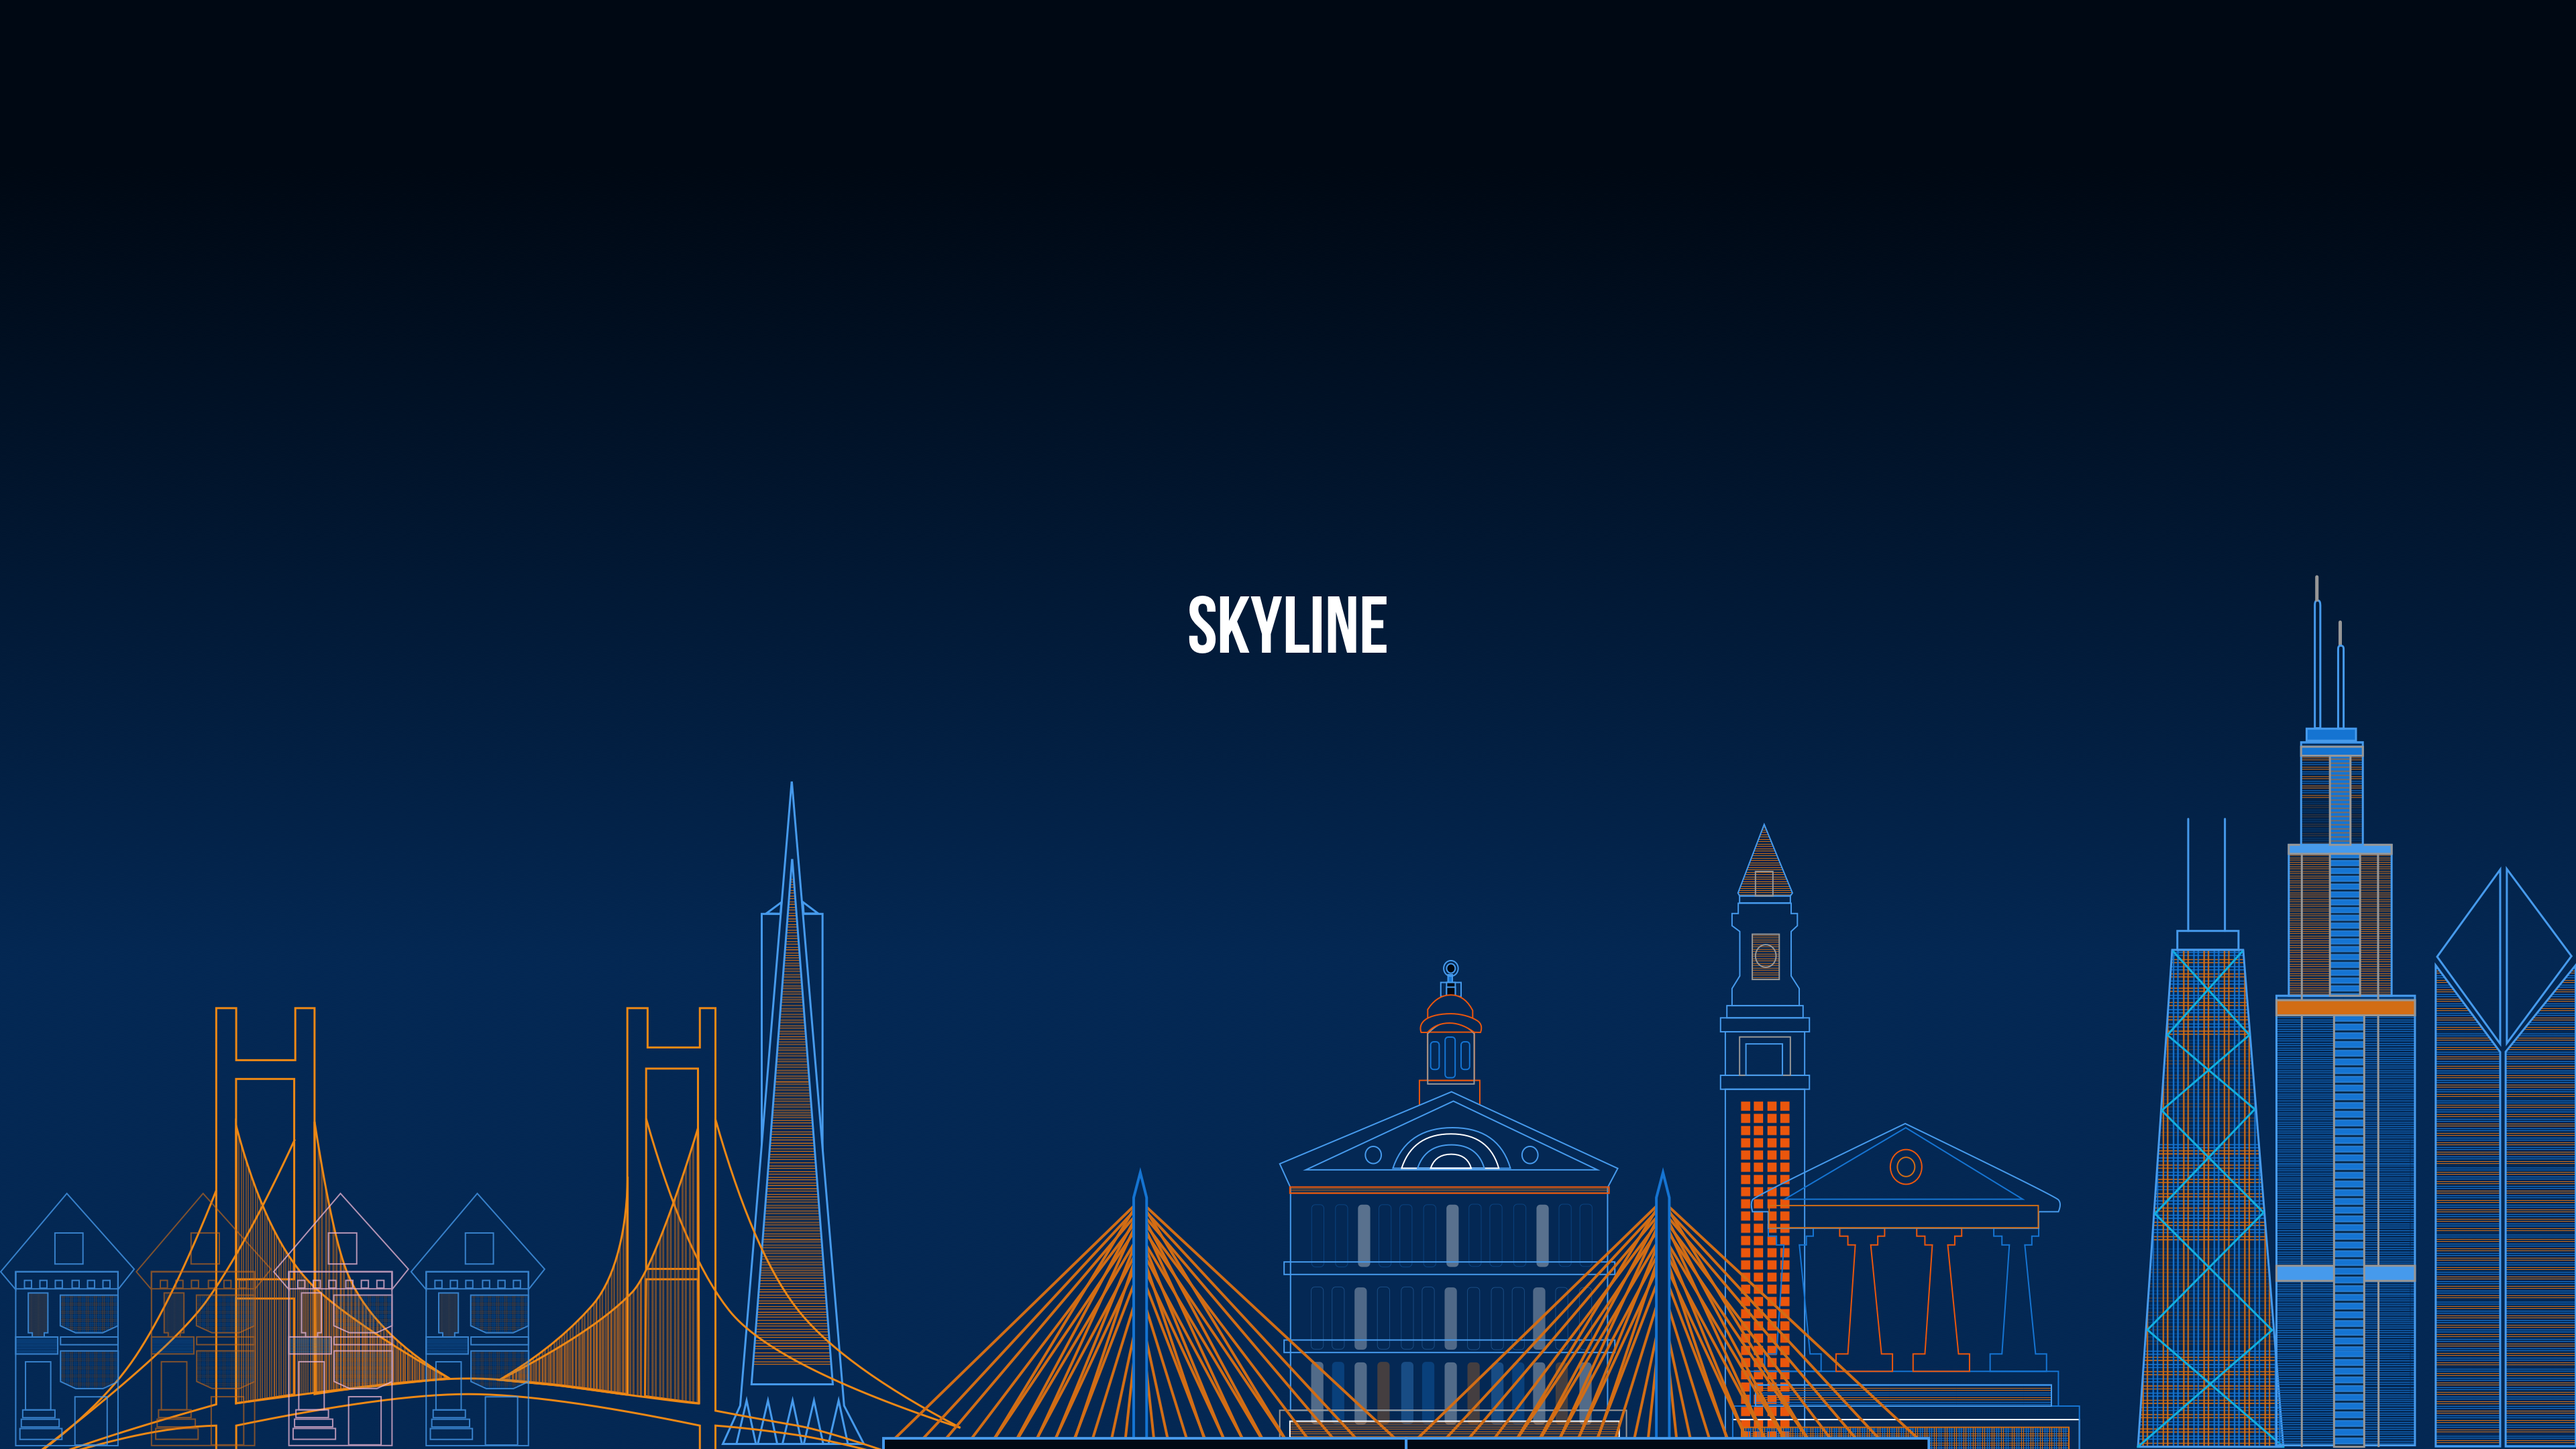
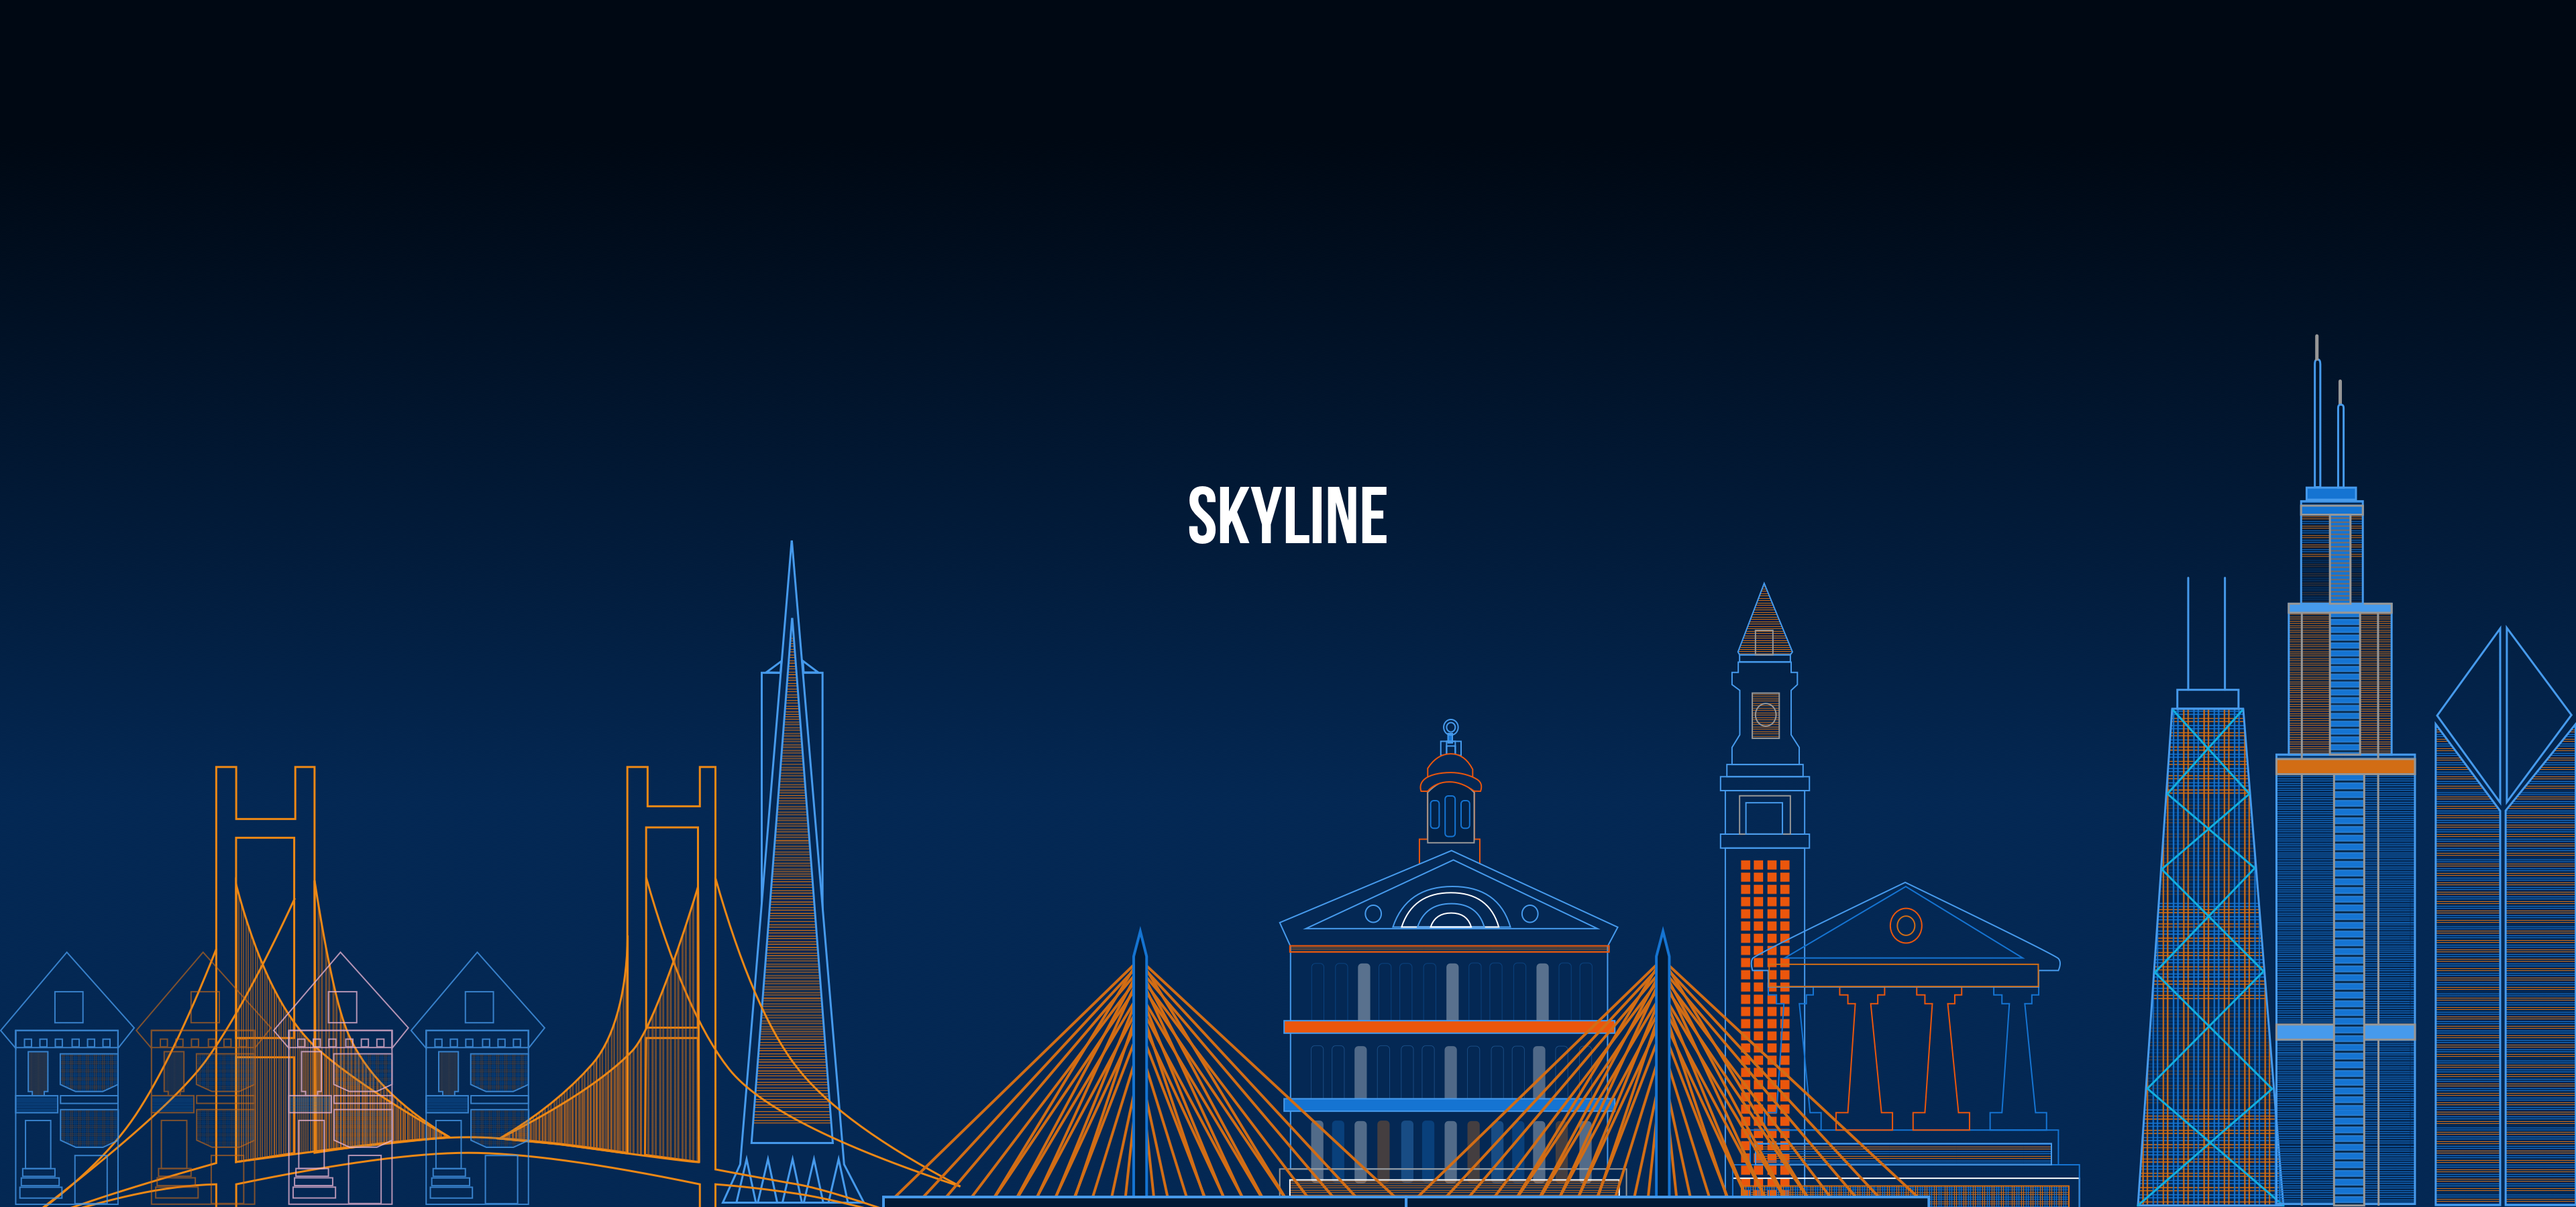
Changed covers for smaller screens on index

Changed region(s): [[0.0, 0.4044, 1.0, 1.0], [0.4375, 0.4044, 0.5625, 0.4356], [0.0938, 0.6533, 0.125, 0.6844]]

diff --git a/css/style.css b/css/style.css
@@ -8,7 +8,7 @@ color :#fff ;
 
 body {
   
-    background-color:#02305E;
+    background-color:white/*#02305E*/;
     font-family: 'Montserrat', sans-serif;
     font-size: 14px; /* Sets the font size to 16px */
     font-weight: 300; /* Sets the font weight to 300 */
@@ -79,7 +79,10 @@ img {
 /*Index*/
 
 .wrapper{
-    margin:0 auto;
+    margin-left:auto;
+    margin-right:auto;
+    margin-bottom:0;
+    margin-top:-6rem;
     padding:0 0 0 0;
     width:100%;
     height:100vh;
@@ -87,6 +90,9 @@ img {
 
 }
 
+#intro.wrapper{
+    background-color:#000813;
+}
 .container{
     margin-top:0;
     margin-bottom:0;
@@ -104,7 +110,7 @@ img {
     width:100%;
     height:15vh;
     padding-top:0;
-    background-color:#02305E;
+    background-color:#000813;
     z-index:999;
 
 }
@@ -115,7 +121,7 @@ main{
 #intro .container
 {
     height:80vh;
-    background-color:#02305E;
+    background-color:#000813;
 }
 
 
@@ -194,7 +200,7 @@ main{
 
 .story p{
   position: absolute;
-  bottom: 10rem;
+ 
   left: 0;
 }
 
@@ -254,8 +260,15 @@ main{
  
  }
 
+#index_footer{
+    background-color:#000813;
+    margin-top:-6rem;
+     padding-bottom:4rem;
+}
 .footer_header{
     width:80%;
+    padding-top:4rem;
+
     margin:0 auto;
     text-align: left;
 }
@@ -798,7 +811,7 @@ body.about{
 @media screen and (max-width: 1024px) {
 
     body{
-        font-size:14px;
+        font-size:12px;
     }
     .my-video-dimensions {
         width: 600px;
@@ -816,12 +829,14 @@ body.about{
 
 
 @media screen and (max-width: 768px) {
-
+    
+    #intro{
+        margin-top:-6rem;
+    }
     
     #intro .container{
-        height:auto;
-        padding-bottom:5rem;
-        margin-top:-4rem;
+        margin-top:0;
+        
     }
 
     .feather_illus {
@@ -854,12 +869,9 @@ body.about{
     .grid_work>div{
     flex:none;}
     
-    body{
-        font-size:14px;
-    }    
 
     .container.navbar{
-        height:10vh;
+        height:12vh;
 
     }
 
@@ -925,9 +937,14 @@ body.about{
 }
 
 @media screen and (max-width: 500px) {
+
   body{
-    font-size:12px;
+    font-size:11px;
     }
+
+   #intro{
+        margin-top:-8rem;
+    } 
 
   .feather_illus {
     width: 80%;

diff --git a/index.html b/index.html
@@ -67,19 +67,19 @@
             <!--Work Grid-->
             <section class="covers">
                 <picture>
-                    <source srcset="img/fitted_cover.png" media="(max-width:600px)">
+                    <source srcset="img/fitted_cover_small.png" media="(max-width:768px)">
                     <img src="img/fitted_cover.png" alt="Parvathy">
                 </picture>
                 <picture>
-                    <source srcset="img/vela_cover.png" media="(max-width:600px)">
+                    <source srcset="img/vela_cover_small.png" media="(max-width:768px)">
                     <img src="img/vela_cover.png" alt="Parvathy">
                 </picture>
                 <picture>
-                    <source srcset="img/the5questiontrip_cover.png" media="(max-width:600px)">
+                    <source srcset="img/the5questiontrip_cover_small.png" media="(max-width:768px)">
                     <img src="img/the5questiontrip_cover.png" alt="Parvathy">
                 </picture>
                 <picture>
-                    <source srcset="img/skyline_cover.png" media="(max-width:600px)">
+                    <source srcset="img/skyline_cover_small.png" media="(max-width:768px)">
                     <img src="img/skyline_cover.png" alt="Parvathy">
                 </picture>
                
